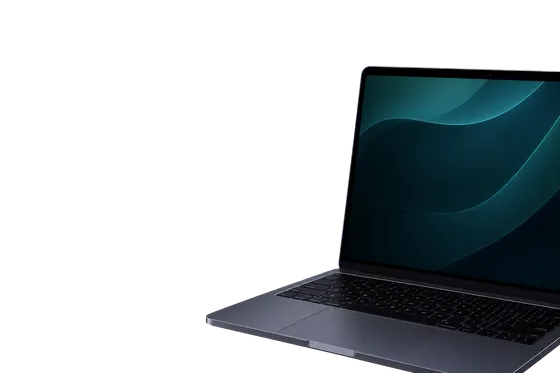
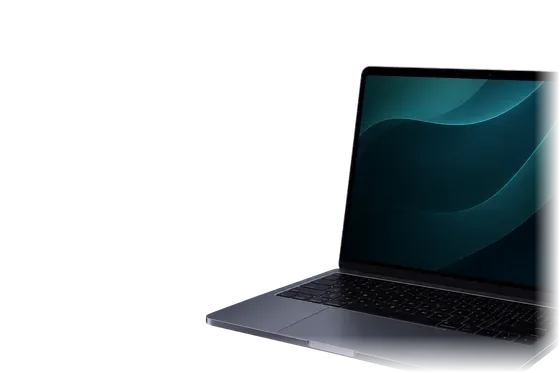
Feather service card asset edges

Changed region(s): [[0.5161, 0.1769, 1.0, 1.0]]

diff --git a/index.html b/index.html
@@ -808,7 +808,7 @@ a{color:inherit;text-decoration:none}
           <h3>Computers</h3>
           <p>Slow performance, overheating, screen issues, storage upgrades, malware, and no-boot problems.</p>
           <span class="service-card-link">View services <span aria-hidden="true">→</span></span>
-          <img src="/assets/services/card-laptop.webp" alt="" width="560" height="373" loading="lazy" decoding="async">
+          <img src="/assets/services/card-laptop.webp?v=clip-20260515" alt="" width="560" height="373" loading="lazy" decoding="async">
         </a>
 
         <a class="hdr-service-card hdr-service-card--console" href="/console-repair" style="--card-accent:#b064ff;">
@@ -824,7 +824,7 @@ a{color:inherit;text-decoration:none}
           <h3>Tablets</h3>
           <p>Cracked screens, battery replacement, charging issues, kid-drop damage, and more.</p>
           <span class="service-card-link">View services <span aria-hidden="true">→</span></span>
-          <img src="/assets/services/card-tablet.webp" alt="" width="560" height="373" loading="lazy" decoding="async">
+          <img src="/assets/services/card-tablet.webp?v=clip-20260515" alt="" width="560" height="373" loading="lazy" decoding="async">
         </a>
 
         <a class="hdr-service-card hdr-service-card--diagnostics" href="/repair-or-replace-phone" style="--card-accent:#ff6b70;">
